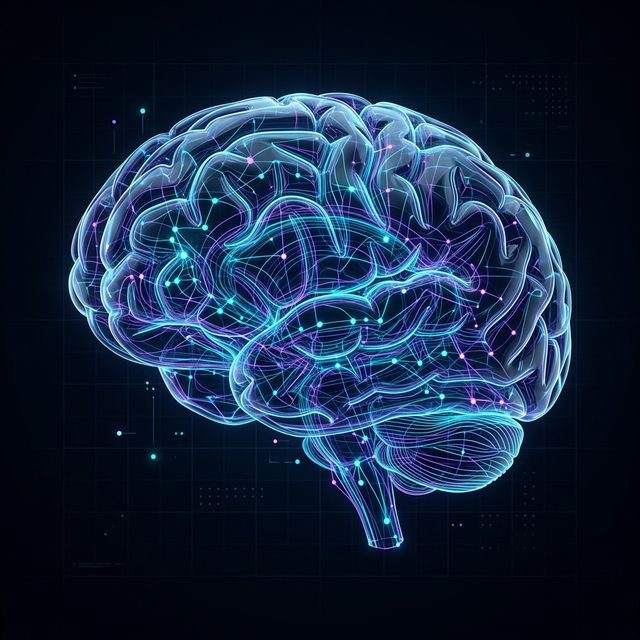
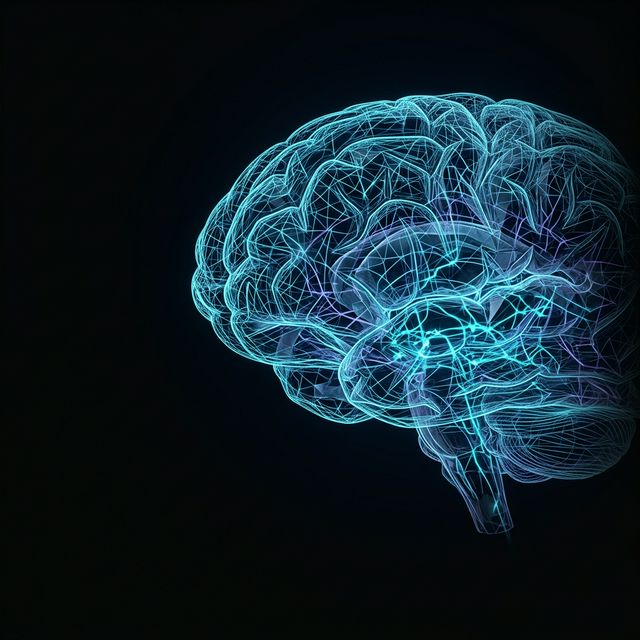
Step 14: Final Hero simplification and perfect background matching

diff --git a/src/app/page.tsx b/src/app/page.tsx
@@ -75,38 +75,22 @@ export default function Home() {
 
             {/* Name with Space Grotesk */}
             <h1 className='text-6xl md:text-8xl lg:text-9xl font-bold tracking-tighter text-white mb-8 leading-[0.9] display-font'>
-              <span className='block opacity-50 text-4xl md:text-5xl lg:text-6xl mb-2 font-medium tracking-normal'>
+              <span className='block opacity-30 text-4xl md:text-5xl lg:text-7xl mb-2 font-medium tracking-normal'>
                 {locale === "fr" ? "Je suis" : locale === "de" ? "Ich bin" : "I am"}
               </span>
-              <TextType
-                text={L(site.name, locale)}
-                as="span"
-                typingSpeed={100}
-                pauseDuration={2000}
-                showCursor={false}
-                loop={false}
-                className="text-white"
-              />
+              {L(site.name, locale)}
             </h1>
 
             {/* Elite Role */}
             <div className='mb-10'>
               <h2 className='text-2xl md:text-4xl lg:text-5xl font-semibold tracking-tight leading-tight'>
-                <SplitText
-                  text={locale === "fr"
+                <span className='text-[#00d9ff]'>
+                  {locale === "fr"
                     ? "Ingénieur en IA & Full-Stack"
                     : locale === "de"
                       ? "KI & Full-Stack Ingenieur"
                       : "AI & Full-Stack Engineer"}
-                  tag="span"
-                  className="text-[#00d9ff] text-glow-cyan"
-                  delay={50}
-                  duration={0.5}
-                  ease="power3.out"
-                  splitType="chars"
-                  from={{ opacity: 0, y: 20 }}
-                  to={{ opacity: 1, y: 0 }}
-                />
+                </span>
               </h2>
             </div>
 
@@ -119,24 +103,16 @@ export default function Home() {
                   : "Architecting the next generation of intelligence, from foundational Transformer models to robust enterprise ecosystems. Specializing in Deep Learning, NLP, and high-performance software engineering."}
             </p>
 
-            <div className='absolute top-0 right-0 w-full h-full lg:w-1/2 lg:h-full opacity-20 lg:opacity-30 pointer-events-none select-none overflow-hidden'>
-              <div className='absolute inset-0 bg-gradient-to-l from-black via-transparent to-transparent z-10'></div>
+            <div className='absolute top-0 right-0 w-full h-full lg:w-3/5 lg:h-full opacity-60 pointer-events-none select-none overflow-hidden brain-visual-mask'>
               <Image
                 src="/the_mind.png"
-                alt="The Mind"
+                alt="Brain Visual"
                 fill
-                className='object-contain object-right transform translate-x-20 scale-110 lg:scale-125'
+                className='object-cover object-right transform translate-x-20 scale-100'
               />
             </div>
 
             <div className='relative z-20'>
-              <div className='flex items-center gap-3 mb-6'>
-                <span className='text-[10px] font-bold text-white/30 uppercase tracking-[0.5em] display-font'>NEURAL INTERFACE ACTIVED</span>
-                <div className='h-[1px] w-20 bg-white/10'></div>
-              </div>
-              <h2 className='text-[16vw] font-black text-white leading-none tracking-tighter display-font mb-12 opacity-[0.03] select-none pointer-events-none absolute -top-32 left-0 whitespace-nowrap uppercase'>
-                THE MIND
-              </h2>
 
               {/* Glassmorphism CTAs */}
               <div className='flex flex-wrap items-center gap-6'>

diff --git a/src/app/globals.css b/src/app/globals.css
@@ -28,12 +28,12 @@
   --glass-border: rgba(255, 255, 255, 0.1);
   --glass-bg: rgba(255, 255, 255, 0.03);
 
-  --font-sans: var(--font-inter), system-ui, sans-serif;
-  --font-display: var(--font-space-grotesk), system-ui, sans-serif;
+  --font-sans: "Inter", system-ui, sans-serif;
+  --font-display: "Inter", system-ui, sans-serif;
 
   --radius: 0.5rem;
   --background: var(--bg-obsidian);
-  --foreground: #e5e2e1;
+  --foreground: #ffffff;
 }
 
 html,
@@ -297,4 +297,9 @@ html {
   opacity: var(--glow-intensity, 0);
   pointer-events: none;
   transition: opacity 0.3s ease;
+}
+
+.brain-visual-mask {
+  mask-image: radial-gradient(circle at 60% 50%, black 20%, transparent 70%);
+  -webkit-mask-image: radial-gradient(circle at 60% 50%, black 20%, transparent 70%);
 }